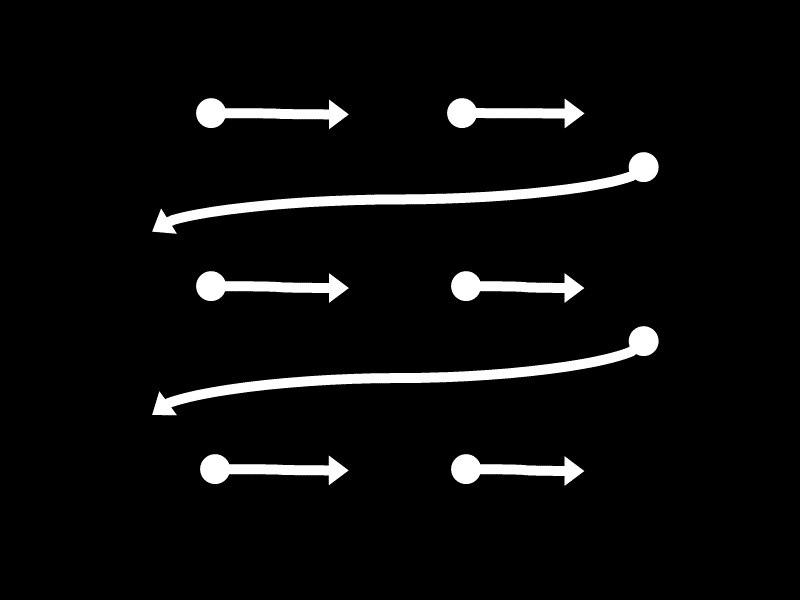
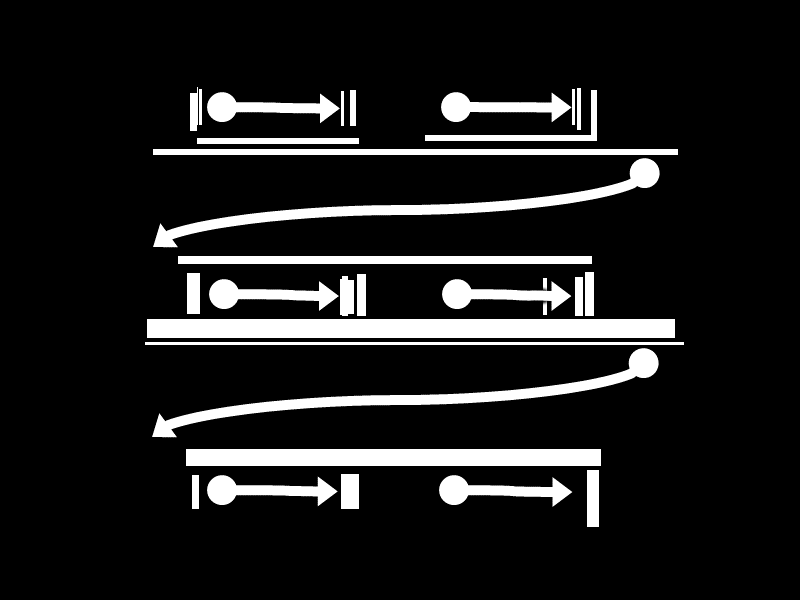
Level Menu Tweaks
Level menu now has arrows pointing correctly.

Changed region(s): [[0.1875, 0.15, 0.8438, 0.75], [0.2188, 0.75, 0.75, 0.9]]

diff --git a/src/nonPlaying.cpp b/src/nonPlaying.cpp
@@ -135,14 +135,14 @@ void LevelMenu::drawCell(sf::RenderWindow &w, int row_position, int column_posit
   sf::RectangleShape box;
   box.setSize(sf::Vector2f(cell_width, cell_height));
   box.setOutlineColor(sf::Color::Black);
-  box.setOutlineThickness(4);
+  box.setOutlineThickness(2);
   box.setPosition(x,y);
 
 
   sf::Text text;
   text.setFont(*(global()->gameEngine.resourceManager->getFont("resources/font/6809 chargen.ttf")));
   text.setCharacterSize(24);
-  text.setPosition(x,y);
+  text.setPosition(x+8,y+28);
   text.setString(level_string);
 
   if (position_row == row_position && position_column == column_position){
